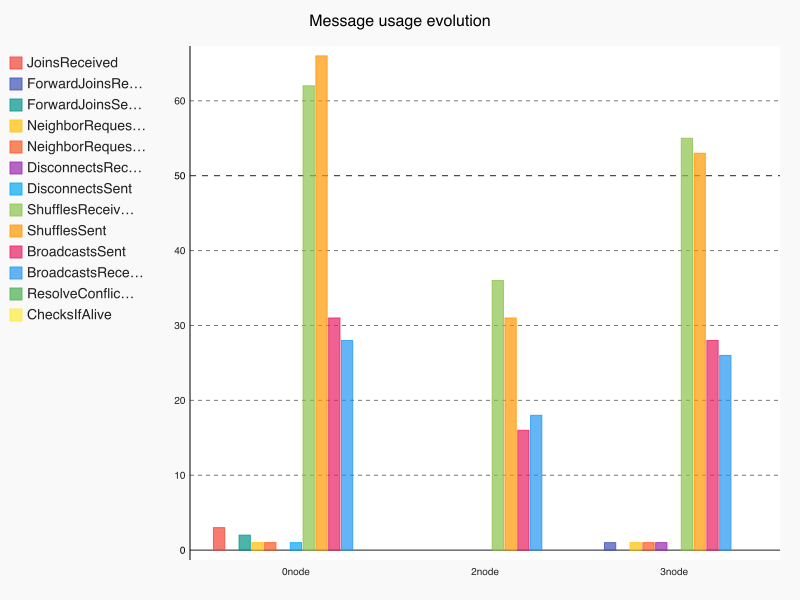
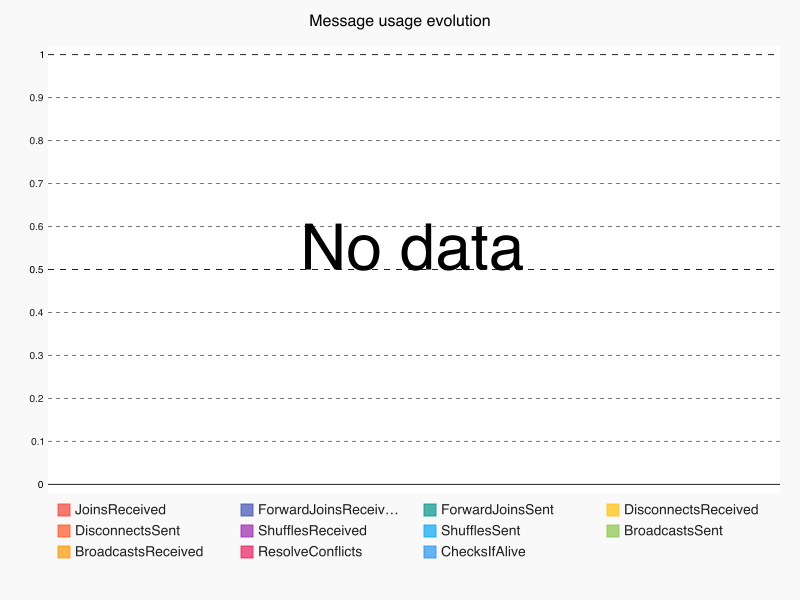
finish

diff --git a/bars.py b/bars.py
@@ -35,8 +35,8 @@ def animate(i):
         a.append(data["data"][n]["JoinsReceived"])
         a.append(data["data"][n]["ForwardJoinsReceived"])
         a.append(data["data"][n]["ForwardJoinsSent"])
-        a.append(data["data"][n]["NeighborRequestsReceived"])
-        a.append(data["data"][n]["NeighborRequestsSent"])
+        #a.append(data["data"][n]["NeighborRequestsReceived"])
+        #a.append(data["data"][n]["NeighborRequestsSent"])
         a.append(data["data"][n]["DisconnectsReceived"])
         a.append(data["data"][n]["DisconnectsSent"])
         a.append(data["data"][n]["ShufflesReceived"])
@@ -45,10 +45,12 @@ def animate(i):
         a.append(data["data"][n]["BroadcastsReceived"])
         a.append(data["data"][n]["ResolveConflicts"])
         a.append(data["data"][n]["ChecksIfAlive"])
+
+
         messageCounters.append(a)
         peersId.append((data["data"][n]["id"]))
     
-    line_chart = pygal.Bar()
+    line_chart = pygal.Bar(legend_at_bottom=True)
     line_chart.title = 'Message usage evolution'
     line_chart.x_labels = map(str, peersId)
     
@@ -56,8 +58,8 @@ def animate(i):
     JoinsReceived = []
     ForwardJoinsReceived = []
     ForwardJoinsSent = []
-    NeighborRequestsReceived = []
-    NeighborRequestsSent = []
+    #NeighborRequestsReceived = []
+    #NeighborRequestsSent = []
     DisconnectsReceived = []
     DisconnectsSent = []
     ShufflesReceived = []
@@ -72,22 +74,22 @@ def animate(i):
         JoinsReceived.append(m[0])
         ForwardJoinsReceived.append(m[1])
         ForwardJoinsSent.append(m[2])
-        NeighborRequestsReceived.append(m[3])
-        NeighborRequestsSent.append(m[4])
-        DisconnectsReceived.append(m[5])
-        DisconnectsSent.append(m[6])
-        ShufflesReceived.append(m[7])
-        ShufflesSent.append(m[8])
-        BroadcastsSent.append(m[9])
-        BroadcastsReceived.append(m[10])
-        ResolveConflicts.append(m[11])
-        ChecksIfAlive.append(m[12])
+        #NeighborRequestsReceived.append(m[3])
+        #NeighborRequestsSent.append(m[4])
+        DisconnectsReceived.append(m[3])
+        DisconnectsSent.append(m[4])
+        ShufflesReceived.append(m[5])
+        ShufflesSent.append(m[6])
+        BroadcastsSent.append(m[7])
+        BroadcastsReceived.append(m[8])
+        ResolveConflicts.append(m[9])
+        ChecksIfAlive.append(m[10])
     
     line_chart.add('JoinsReceived', JoinsReceived)
     line_chart.add( 'ForwardJoinsReceived', ForwardJoinsReceived)
     line_chart.add( 'ForwardJoinsSent', ForwardJoinsSent)
-    line_chart.add( 'NeighborRequestsReceived', NeighborRequestsReceived)
-    line_chart.add( 'NeighborRequestsSent', NeighborRequestsSent)
+    #line_chart.add( 'NeighborRequestsReceived', NeighborRequestsReceived)
+    #line_chart.add( 'NeighborRequestsSent', NeighborRequestsSent)
     line_chart.add( 'DisconnectsReceived', DisconnectsReceived)
     line_chart.add( 'DisconnectsSent', DisconnectsSent)
     line_chart.add( 'ShufflesReceived', ShufflesReceived)
@@ -97,8 +99,6 @@ def animate(i):
     line_chart.add( 'ResolveConflicts', ResolveConflicts)
     line_chart.add( 'ChecksIfAlive', ChecksIfAlive)
 
-    
-    
     
     line_chart.render_to_png(filename="plot.png")
     #img = Image.imread("plot.png")

diff --git a/hbars.py b/hbars.py
@@ -23,8 +23,8 @@ def animate(i):
     graphNodesGv = []
     peersId = []
 
-    line_chart = pygal.HorizontalBar()
-
+    line_chart = pygal.HorizontalBar(legend_at_bottom=True)
+    
     for n in range(0,len(data["data"])):
         strGV = (data["data"][n]["id"]) + " = "
         for i in range(0,len(data["data"][n]["gv"])):
